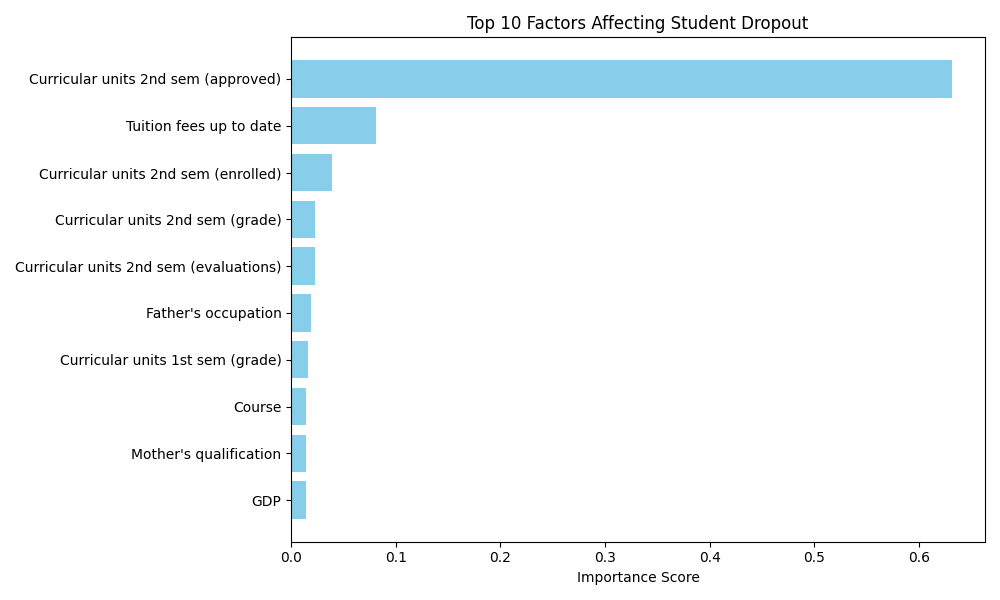
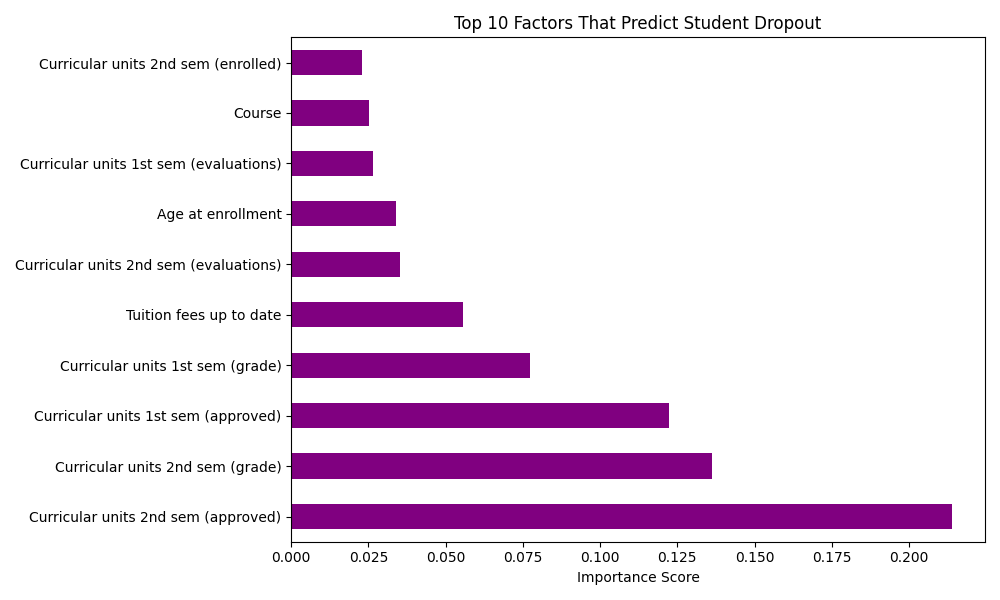
Initial commit - Student Dropout Predictor by Padma Shree

Changed region(s): [[0.0, 0.06, 0.961, 0.96], [0.465, 0.03, 0.837, 0.06]]

diff --git a/dropout_model.py b/dropout_model.py
@@ -3,141 +3,53 @@
 # Project 10 of 25
 
 import pandas as pd
-import numpy as np
 import matplotlib.pyplot as plt
-import seaborn as sns
 from sklearn.model_selection import train_test_split
-from sklearn.tree import DecisionTreeClassifier
-from sklearn.metrics import accuracy_score, confusion_matrix, classification_report
-from sklearn.preprocessing import LabelEncoder
+from sklearn.ensemble import RandomForestClassifier
+from sklearn.metrics import accuracy_score, classification_report
 
-print("=" * 50)
-print("🎓 STUDENT DROPOUT PREDICTOR")
-print("=" * 50)
+# Step 1 - Load data
+print("=== STUDENT DROPOUT PREDICTOR ===")
+df = pd.read_csv(r"C:\Users\Padma shree jena\Desktop\PadduDS_Journey\05_resources\datasets\student_data.csv")
+# Step 2 - Understand data
+print("Total records:", len(df))
+print("Columns:", df.columns.tolist())
+print("\nTarget distribution:")
+print(df["Target"].value_counts())
 
-# Step 1: Load data
-file_path = r"C:\Users\Padma shree jena\Desktop\PadduDS_Journey\05_resources\datasets\student_data.csv"
+# Step 3 - Prepare data for ML
+print("\n=== TRAINING ML MODEL ===")
 
-try:
-    df = pd.read_csv(file_path)
-    print(f"\n✅ Dataset loaded: {len(df)} students")
-except FileNotFoundError:
-    print("\n❌ File not found!")
-    exit()
+# Keep only Graduate and Dropout for binary classification
+df_model = df[df["Target"] != "Enrolled"].copy()
+df_model["Target"] = df_model["Target"].map({"Graduate": 0, "Dropout": 1})
 
-# Step 2: Target column is 'Target' (Dropout, Graduate, Enrolled)
-target_col = 'Target'
-print(f"\n🎯 Target column: {target_col}")
-print(f"Unique values: {df[target_col].unique()}")
+# Features and target
+X = df_model.drop("Target", axis=1)
+y = df_model["Target"]
 
-# Step 3: Filter only Dropout and Graduate (remove Enrolled)
-df = df[df[target_col].isin(['Dropout', 'Graduate'])]
-print(f"\n📊 After filtering (Dropout + Graduate only): {len(df)} students")
-
-# Step 4: Encode target (Dropout=1, Graduate=0)
-df[target_col] = df[target_col].map({'Graduate': 0, 'Dropout': 1})
-
-# Step 5: Separate features and target
-X = df.drop(target_col, axis=1)
-y = df[target_col]
-
-# Step 6: Handle categorical columns
-categorical_cols = X.select_dtypes(include=['object']).columns
-for col in categorical_cols:
-    X[col] = LabelEncoder().fit_transform(X[col].astype(str))
-
-# Step 7: Handle missing values
-X = X.fillna(X.median())
-
-print(f"\n📊 Features after preprocessing: {X.shape[1]}")
-print(f"🎯 Students who dropped out: {(y == 1).sum()}")
-print(f"✅ Students who graduated: {(y == 0).sum()}")
-
-# Step 8: Split data
+# Split data
 X_train, X_test, y_train, y_test = train_test_split(X, y, test_size=0.2, random_state=42)
+print("Training samples:", len(X_train))
+print("Testing samples:", len(X_test))
 
-print(f"\n📚 Training data: {len(X_train)} students")
-print(f"🧪 Testing data: {len(X_test)} students")
-
-# Step 9: Train Decision Tree model
-model = DecisionTreeClassifier(max_depth=10, random_state=42)
+# Step 4 - Train model
+model = RandomForestClassifier(n_estimators=100, random_state=42)
 model.fit(X_train, y_train)
 
-print("\n🤖 Decision Tree model trained!")
-
-# Step 10: Make predictions
+# Step 5 - Evaluate
 y_pred = model.predict(X_test)
-
-# Step 11: Calculate accuracy
 accuracy = accuracy_score(y_test, y_pred)
-print(f"\n📈 Model Accuracy: {accuracy * 100:.2f}%")
+print("\nModel Accuracy:", round(accuracy * 100, 2), "%")
+print("\nClassification Report:")
+print(classification_report(y_test, y_pred, target_names=["Graduate", "Dropout"]))
 
-# Step 12: Confusion Matrix
-cm = confusion_matrix(y_test, y_pred)
-print(f"\n📊 Confusion Matrix:")
-print(f"True Graduated: {cm[0,0]} | False Dropout: {cm[0,1]}")
-print(f"False Graduated: {cm[1,0]} | True Dropout: {cm[1,1]}")
-
-# ============================================
-# CHART 1: Confusion Matrix Heatmap
-# ============================================
-plt.figure(figsize=(6, 5))
-sns.heatmap(cm, annot=True, fmt='d', cmap='Blues',
-            xticklabels=['Graduated', 'Dropout'],
-            yticklabels=['Graduated', 'Dropout'])
-plt.title('Confusion Matrix - Student Dropout Prediction')
-plt.xlabel('Predicted')
-plt.ylabel('Actual')
+# Step 6 - Feature importance chart
+feature_importance = pd.Series(model.feature_importances_, index=X.columns)
+feature_importance.nlargest(10).plot(kind="barh", color="purple", figsize=(10,6))
+plt.title("Top 10 Factors That Predict Student Dropout")
+plt.xlabel("Importance Score")
 plt.tight_layout()
-plt.savefig('confusion_matrix.png')
+plt.savefig(r"C:\Users\Padma shree jena\Desktop\PadduDS_Journey\03_phase3\dropout_predictor\feature_importance.png")
 plt.show()
-print("✅ Chart 1 saved: confusion_matrix.png")
-
-# ============================================
-# CHART 2: Feature Importance
-# ============================================
-feature_importance = pd.DataFrame({
-    'Feature': X.columns,
-    'Importance': model.feature_importances_
-}).sort_values('Importance', ascending=False).head(10)
-
-plt.figure(figsize=(10, 6))
-plt.barh(feature_importance['Feature'], feature_importance['Importance'], color='skyblue')
-plt.xlabel('Importance Score')
-plt.title('Top 10 Factors Affecting Student Dropout')
-plt.gca().invert_yaxis()
-plt.tight_layout()
-plt.savefig('feature_importance.png')
-plt.show()
-print("✅ Chart 2 saved: feature_importance.png")
-
-# ============================================
-# CHART 3: Outcome Distribution
-# ============================================
-outcome_counts = y.value_counts()
-plt.figure(figsize=(6, 6))
-plt.pie(outcome_counts, labels=['Graduated', 'Dropped Out'], 
-        autopct='%1.1f%%', colors=['green', 'red'], startangle=90)
-plt.title('Student Outcomes: Graduated vs Dropped Out')
-plt.tight_layout()
-plt.savefig('outcome_distribution.png')
-plt.show()
-print("✅ Chart 3 saved: outcome_distribution.png")
-
-# ============================================
-# SUMMARY
-# ============================================
-print("\n" + "=" * 50)
-print("📋 SUMMARY OF FINDINGS")
-print("=" * 50)
-print(f"✅ Total Students Analyzed: {len(df)}")
-print(f"✅ Students Who Graduated: {(y == 0).sum()}")
-print(f"✅ Students Who Dropped Out: {(y == 1).sum()}")
-print(f"✅ Model Accuracy: {accuracy * 100:.2f}%")
-print(f"\n🔍 Top 3 Factors Influencing Dropout:")
-for i in range(min(3, len(feature_importance))):
-    print(f"   {i+1}. {feature_importance.iloc[i]['Feature']}")
-
-print("\n" + "=" * 50)
-print("✅ PROJECT 10 COMPLETE! 3 charts saved!")
-print("=" * 50)
+print("\nChart saved!!")
